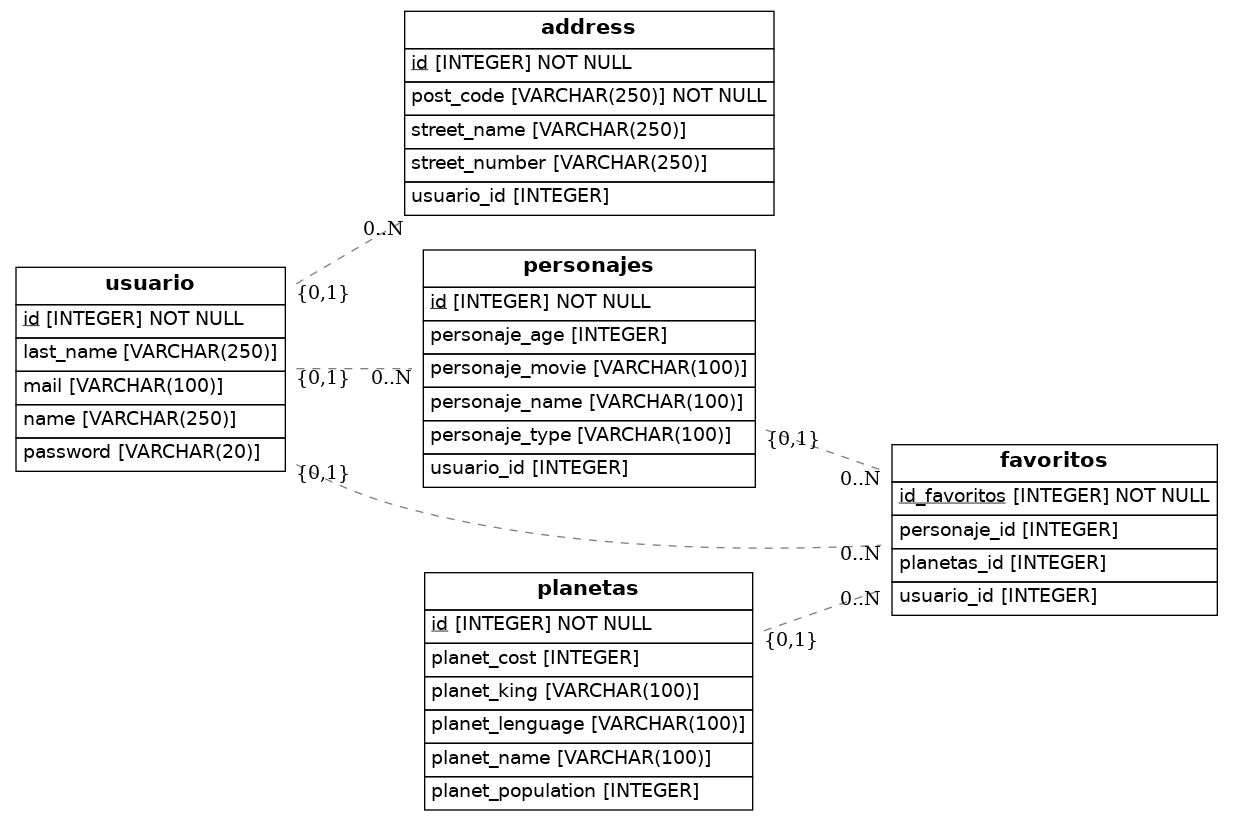
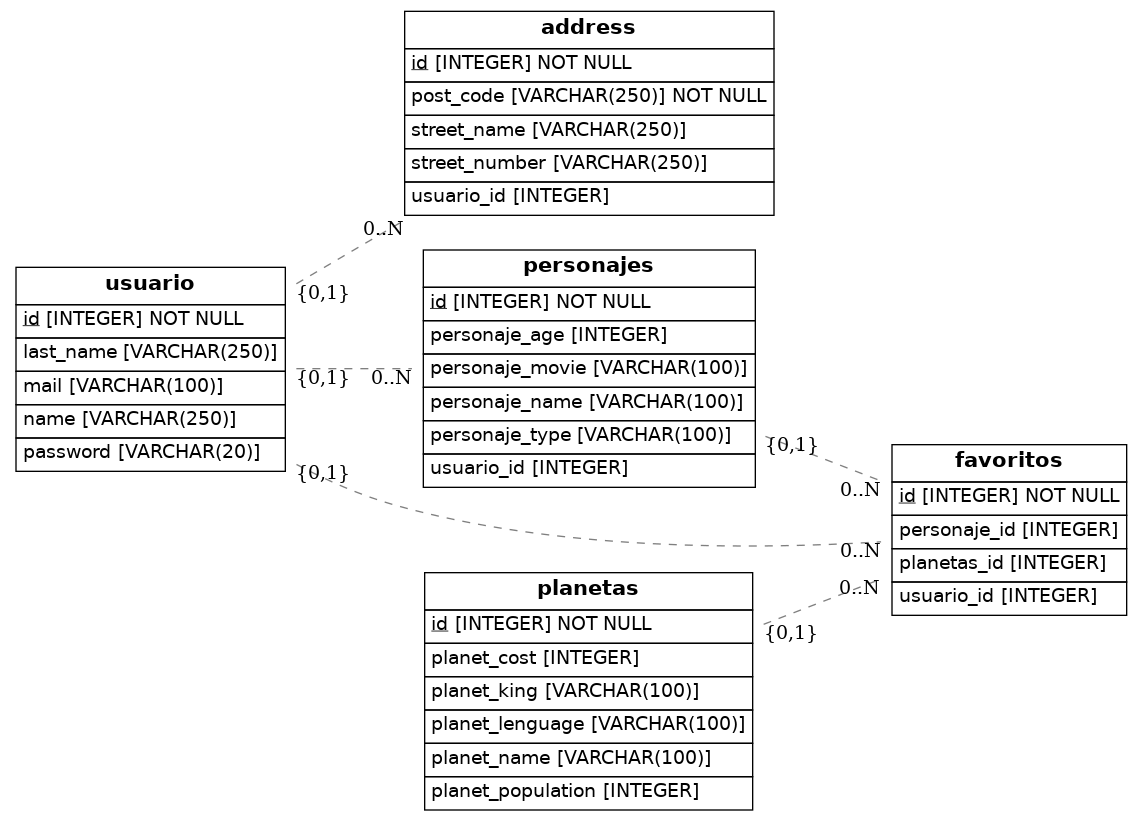
ultimo push 2

diff --git a/src/models.py b/src/models.py
@@ -47,7 +47,7 @@ class Personajes (Base):
 
 class Favoritos (Base):
     __tablename__ = "favoritos"
-    id_favoritos = Column(Integer, primary_key=True)
+    id = Column(Integer, primary_key=True)
     usuario_id = Column(Integer, ForeignKey('usuario.id'))
     usuario = relationship("Usuario", back_populates="favoritos")
     personaje_id = Column(Integer, ForeignKey('personajes.id'))
